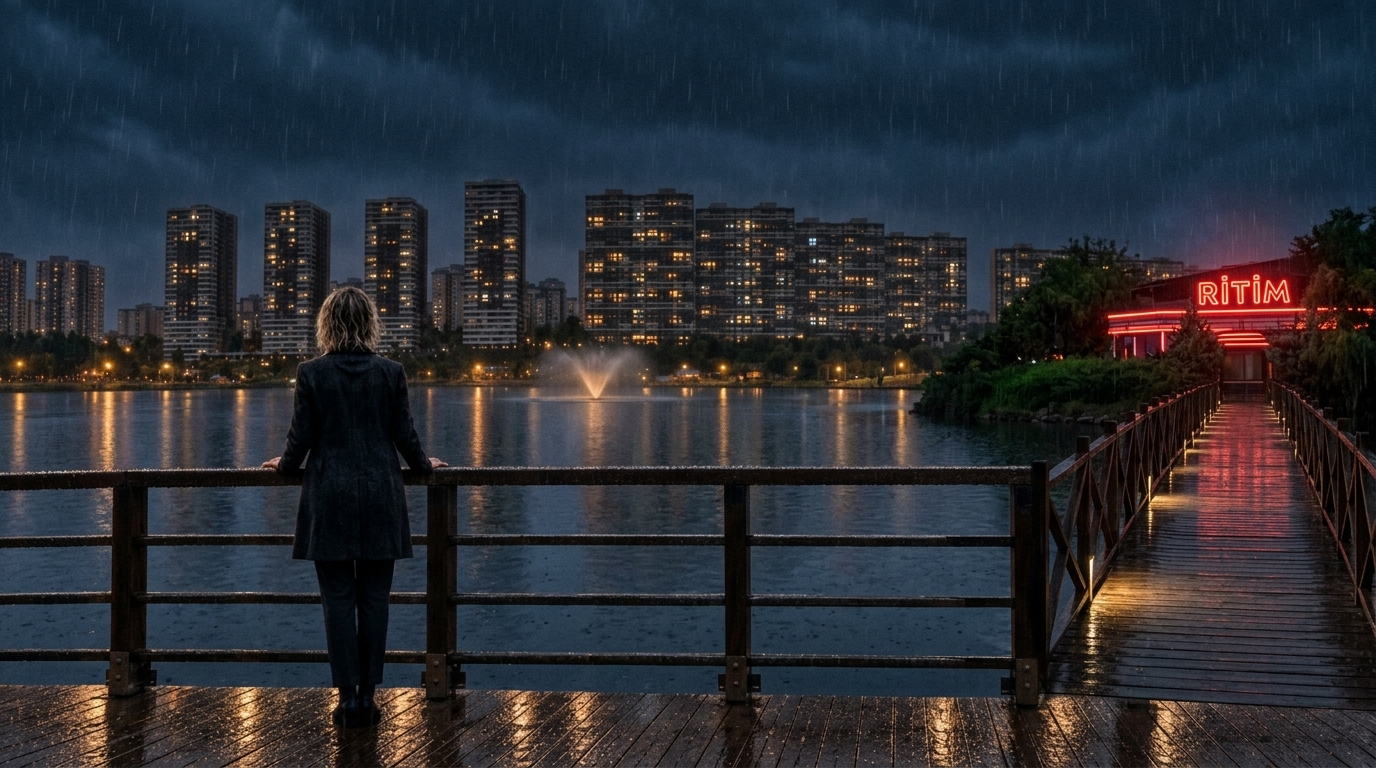
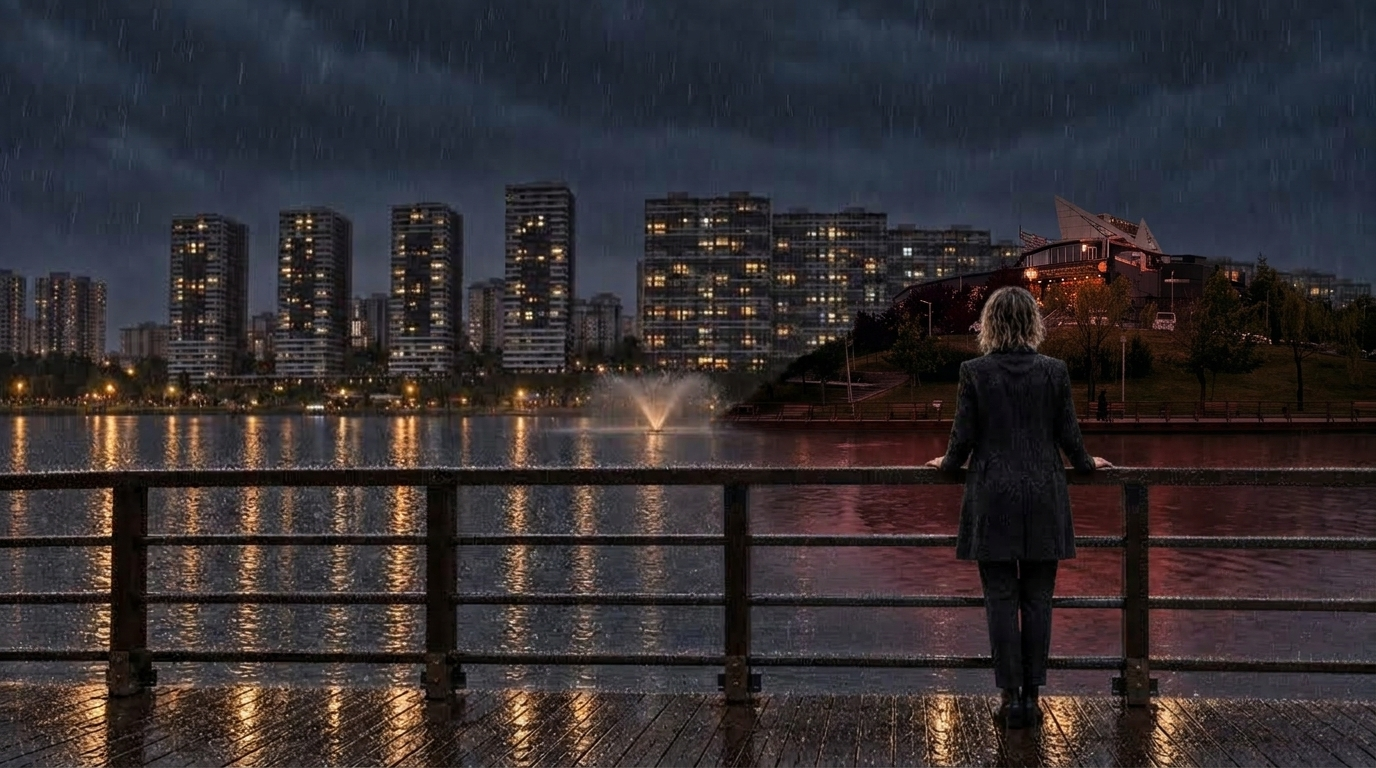
fix(sussuz): v0.4 accurate visuals, modern mustang convertible 06 KNN 03, real lake geography and clean master map

diff --git a/sussuz/assets/js/canvas-map.js b/sussuz/assets/js/canvas-map.js
@@ -204,8 +204,8 @@ class SpatialUniverse {
         { 
           id: "lake_dialogue", 
           name: "BAHAR İLE KONUŞ", 
-          relX: 0.255, 
-          relY: 0.540, 
+          relX: 0.735, 
+          relY: 0.500, 
           icon: "💬", 
           subtitle: "İSKELEDE TEK BAŞINA BİR SES", 
           action: "dialogue", 
@@ -215,7 +215,7 @@ class SpatialUniverse {
         { 
           id: "lake_to_candle", 
           name: "MUMU YAK // ANMA MASASINA GEÇ", 
-          relX: 0.120, 
+          relX: 0.150, 
           relY: 0.850, 
           icon: "🕯", 
           subtitle: "DİLEK BAHAR'IN DOĞUM GÜNÜ PASTASI", 
@@ -226,8 +226,8 @@ class SpatialUniverse {
         { 
           id: "lake_fountain", 
           name: "KARŞI KIYIYA BAK", 
-          relX: 0.435, 
-          relY: 0.480, 
+          relX: 0.470, 
+          relY: 0.520, 
           icon: "🌊", 
           subtitle: "BATAKLIK ÜZERİNE DİKİLEN BLOKLAR // ERYAMAN", 
           action: "prop", 
@@ -237,7 +237,7 @@ class SpatialUniverse {
         { 
           id: "lake_music", 
           name: "BATAKLIK'I DİNLE", 
-          relX: 0.255, 
+          relX: 0.735, 
           relY: 0.380, 
           icon: "🎵", 
           subtitle: "BAHAR — BATAKLIK // SUSSUZ SOUNDTRACK", 
@@ -249,18 +249,18 @@ class SpatialUniverse {
         { 
           id: "lake_to_ritim", 
           name: "RİTİM GECE KULÜBÜ", 
-          relX: 0.900, 
-          relY: 0.380, 
+          relX: 0.860, 
+          relY: 0.360, 
           icon: "⚡", 
-          subtitle: "ADADAKİ NEON IŞIKLAR // GEÇİŞ YAP", 
+          subtitle: "ADADAKİ MEKÂN // GEÇİŞ YAP", 
           action: "fly_subvenue", 
           target: "ritim", 
-          desc: "İskelenin sağında, ahşap köprünün bağlandığı adada kırmızı neonlarıyla parlayan RİTİM görünüyor. Kulübe geçin." 
+          desc: "Gölün ortasındaki adada, suyun üzerinde kırmızı mimari ışıklarıyla parlayan RİTİM görünüyor. Kulübe geçin." 
         },
         { 
           id: "lake_note", 
           name: "İSKELEYE BİR CÜMLE BIRAK", 
-          relX: 0.550, 
+          relX: 0.400, 
           relY: 0.880, 
           icon: "✍", 
           subtitle: "GÖLE VE GECEYE FISILDA", 
@@ -431,10 +431,10 @@ class SpatialUniverse {
       ],
 
       ritim_road: [
-        { id: "road_moment", name: "ANAHTARI CEBİNE AT", relX: 0.500, relY: 0.550, icon: "✋", subtitle: "KEREM: 'SANA GERİSİNİ GÖSTERECEĞİM'", action: "prop", propName: "Kerem'in Murad'ı Durdurduğu An", desc: "KEREM: 'Sana gerisini göstereceğim.' Murad Mustang anahtarını cebine atar; gece henüz bitmemiştir." },
-        { id: "road_dialogue", name: "KEREM İLE KONUŞ", relX: 0.380, relY: 0.680, icon: "💬", subtitle: "İKİ YABANCININ İLK TEMASI", action: "dialogue", charId: "ekrem", desc: "Kerem (Eku) ve Murad diyalog penceresini açın." },
-        { id: "road_music", name: "RADYONUN SESİNİ AÇ", relX: 0.700, relY: 0.450, icon: "📻", subtitle: "MURAD — BİLMEM, BEN DE // SUSSUZ SOUNDTRACK", action: "music", src: "assets/audio/track_bilmem_ben_de.mp3", desc: "Ford Mustang radyosundan yükselen melodi." },
-        { id: "road_to_club", name: "KULÜP GİRİŞİNE DÖN", relX: 0.850, relY: 0.750, icon: "🚪", subtitle: "RİTİM'İN IŞIKLARI", action: "fly_subvenue", target: "ritim", desc: "Kulüp önüne dönün." }
+        { id: "road_moment", name: "KEREM'İN MÜDAHALESİ", relX: 0.660, relY: 0.560, icon: "✋", subtitle: "KEREM: 'SANA GERİSİNİ GÖSTERECEĞİM'", action: "prop", propName: "Kerem'in Murad'ı Durdurduğu An", desc: "KEREM: 'Sana gerisini göstereceğim.' Murad Mustang anahtarını cebine atar; gece henüz bitmemiştir." },
+        { id: "road_dialogue", name: "KEREM İLE KONUŞ", relX: 0.800, relY: 0.520, icon: "💬", subtitle: "İKİ YABANCININ İLK TEMASI", action: "dialogue", charId: "ekrem", desc: "Kerem (Eku) ve Murad diyalog penceresini açın." },
+        { id: "road_music", name: "RADYONUN SESİNİ AÇ", relX: 0.350, relY: 0.720, icon: "📻", subtitle: "MURAD — BİLMEM, BEN DE // SUSSUZ SOUNDTRACK", action: "music", src: "CvSByNL1r48", fallbackSrc: "assets/audio/track_bilmem_ben_de.mp3", desc: "Ford Mustang (06 KNN 03) radyosundan yükselen melodi." },
+        { id: "road_to_club", name: "KULÜP GİRİŞİNE DÖN", relX: 0.200, relY: 0.250, icon: "🚪", subtitle: "RİTİM'İN IŞIKLARI", action: "fly_subvenue", target: "ritim", desc: "Kulüp önüne dönün." }
       ],
 
       dancefloor: [
@@ -473,8 +473,8 @@ class SpatialUniverse {
         { 
           id: "hill_smoke", 
           name: "SİGARAYI PAYLAŞ", 
-          relX: 0.695, 
-          relY: 0.550, 
+          relX: 0.675, 
+          relY: 0.485, 
           icon: "🚬", 
           subtitle: "05:30 // ANKARA AYAZI // 'YANLIŞSA DA BENİM YANLIŞIM OLUR'", 
           action: "prop", 
@@ -484,8 +484,8 @@ class SpatialUniverse {
         { 
           id: "hill_dialogue", 
           name: "MURAD İLE KONUŞ", 
-          relX: 0.610, 
-          relY: 0.560, 
+          relX: 0.600, 
+          relY: 0.530, 
           icon: "💬", 
           subtitle: "MURAD VE KEREM // 'SENDE Bİ ŞEY VAR, İÇİM YAMUK DEMEDİ'", 
           action: "dialogue", 
@@ -495,8 +495,8 @@ class SpatialUniverse {
         { 
           id: "hill_ekrem_dialogue", 
           name: "KEREM İLE KONUŞ", 
-          relX: 0.785, 
-          relY: 0.570, 
+          relX: 0.760, 
+          relY: 0.540, 
           icon: "💬", 
           subtitle: "KEREM'Sİ (EKU) // GÜVEN VE YANILGI", 
           action: "dialogue", 
@@ -506,8 +506,8 @@ class SpatialUniverse {
         { 
           id: "hill_music", 
           name: "BİLMEM, BEN DE'Yİ DİNLE", 
-          relX: 0.635, 
-          relY: 0.940, 
+          relX: 0.400, 
+          relY: 0.580, 
           icon: "📻", 
           subtitle: "MURAD — BİLMEM, BEN DE // SUSSUZ SOUNDTRACK", 
           action: "music", 
@@ -518,8 +518,8 @@ class SpatialUniverse {
         { 
           id: "hill_note", 
           name: "MUSTANG'E BİR NOT BIRAK", 
-          relX: 0.890, 
-          relY: 0.780, 
+          relX: 0.685, 
+          relY: 0.860, 
           icon: "✍", 
           subtitle: "06 KNN 03 // TORPİDOYA FISILDA", 
           action: "note", 

diff --git a/sussuz/assets/js/app.js b/sussuz/assets/js/app.js
@@ -144,15 +144,15 @@ document.addEventListener("DOMContentLoaded", () => {
           name: "DURDURULAN AN",
           icon: "✋",
           thumb: "assets/img/props/prop_smoke.jpg",
-          subtitle: "EKREM'İN MÜDAHALESİ",
-          desc: "EKREM: 'Sana gerisini göstereceğim.' Murat anahtarı cebine atar; gece henüz bitmemiştir."
+          subtitle: "KEREM'İN MÜDAHALESİ",
+          desc: "KEREM: 'Sana gerisini göstereceğim.' Murad Mustang anahtarını cebine atar; gece henüz bitmemiştir."
         },
         {
-          name: "FARLARI YANAN ARABA",
+          name: "FARLARI YANAN MUSTANG (06 KNN 03)",
           icon: "🚘",
-          thumb: "assets/img/props/prop_mercedes_torpido.jpg",
-          subtitle: "MERCEDES FARLARI",
-          desc: "Asfaltın üzerinde buğulanmış far ışıkları. Ankara gecesinde iki yabancı."
+          thumb: "assets/img/props/prop_mustang_torpido.jpg",
+          subtitle: "MUSTANG FARLARI",
+          desc: "Asfaltın üzerinde buğulanmış Mustang GT far ışıkları. Yağmur altında iki yabancı."
         }
       ]
     },
@@ -365,12 +365,12 @@ document.addEventListener("DOMContentLoaded", () => {
       ctaAudio: "CvSByNL1r48",
       image: "assets/img/loc_hill.jpg",
       characterId: "murat",
-      characterName: "Murat ve Ekrem",
-      characterRole: "Mercedes Kaputunda İki Yabancı",
-      atmosphere: "05:30. Ankara ayazı. Mercedes'in kaputuna yaslanmış iki yabancı sırayla tek bir sigarayı paylaşır. Gece çözülürken kelimeler dökülür.",
+      characterName: "Murad ve Kerem (Eku)",
+      characterRole: "Mustang Kaputunda İki Yabancı",
+      atmosphere: "05:30. Ankara ayazı. Üstü açık siyah Ford Mustang Convertible'ın (06 KNN 03) kaputuna yaslanmış iki adam sırayla tek bir sigarayı paylaşır. Gece çözülürken kelimeler dökülür.",
       musicNote: "Bilmem, Ben De — Kuru Gece Ayazı (Akustik)",
       subvenues: [],
-      noteOrigin: "Mercedes Torpidosu",
+      noteOrigin: "Mustang Torpidosu",
       props: [
         {
           name: "PAYLAŞILAN SİGARA",
@@ -400,7 +400,7 @@ document.addEventListener("DOMContentLoaded", () => {
         {
           name: "MUSTANG CONVERTIBLE (06 KNN 03)",
           icon: "🏎",
-          thumb: "assets/img/props/prop_mercedes_torpido.jpg",
+          thumb: "assets/img/props/prop_mustang_torpido.jpg",
           subtitle: "06 KNN 03 // BİLMEM, BEN DE",
           desc: "Siyah Ford Mustang Convertible'ın (06 KNN 03) radyosundan yükselen soğuk ayaz melodisi.",
           action: "music",
